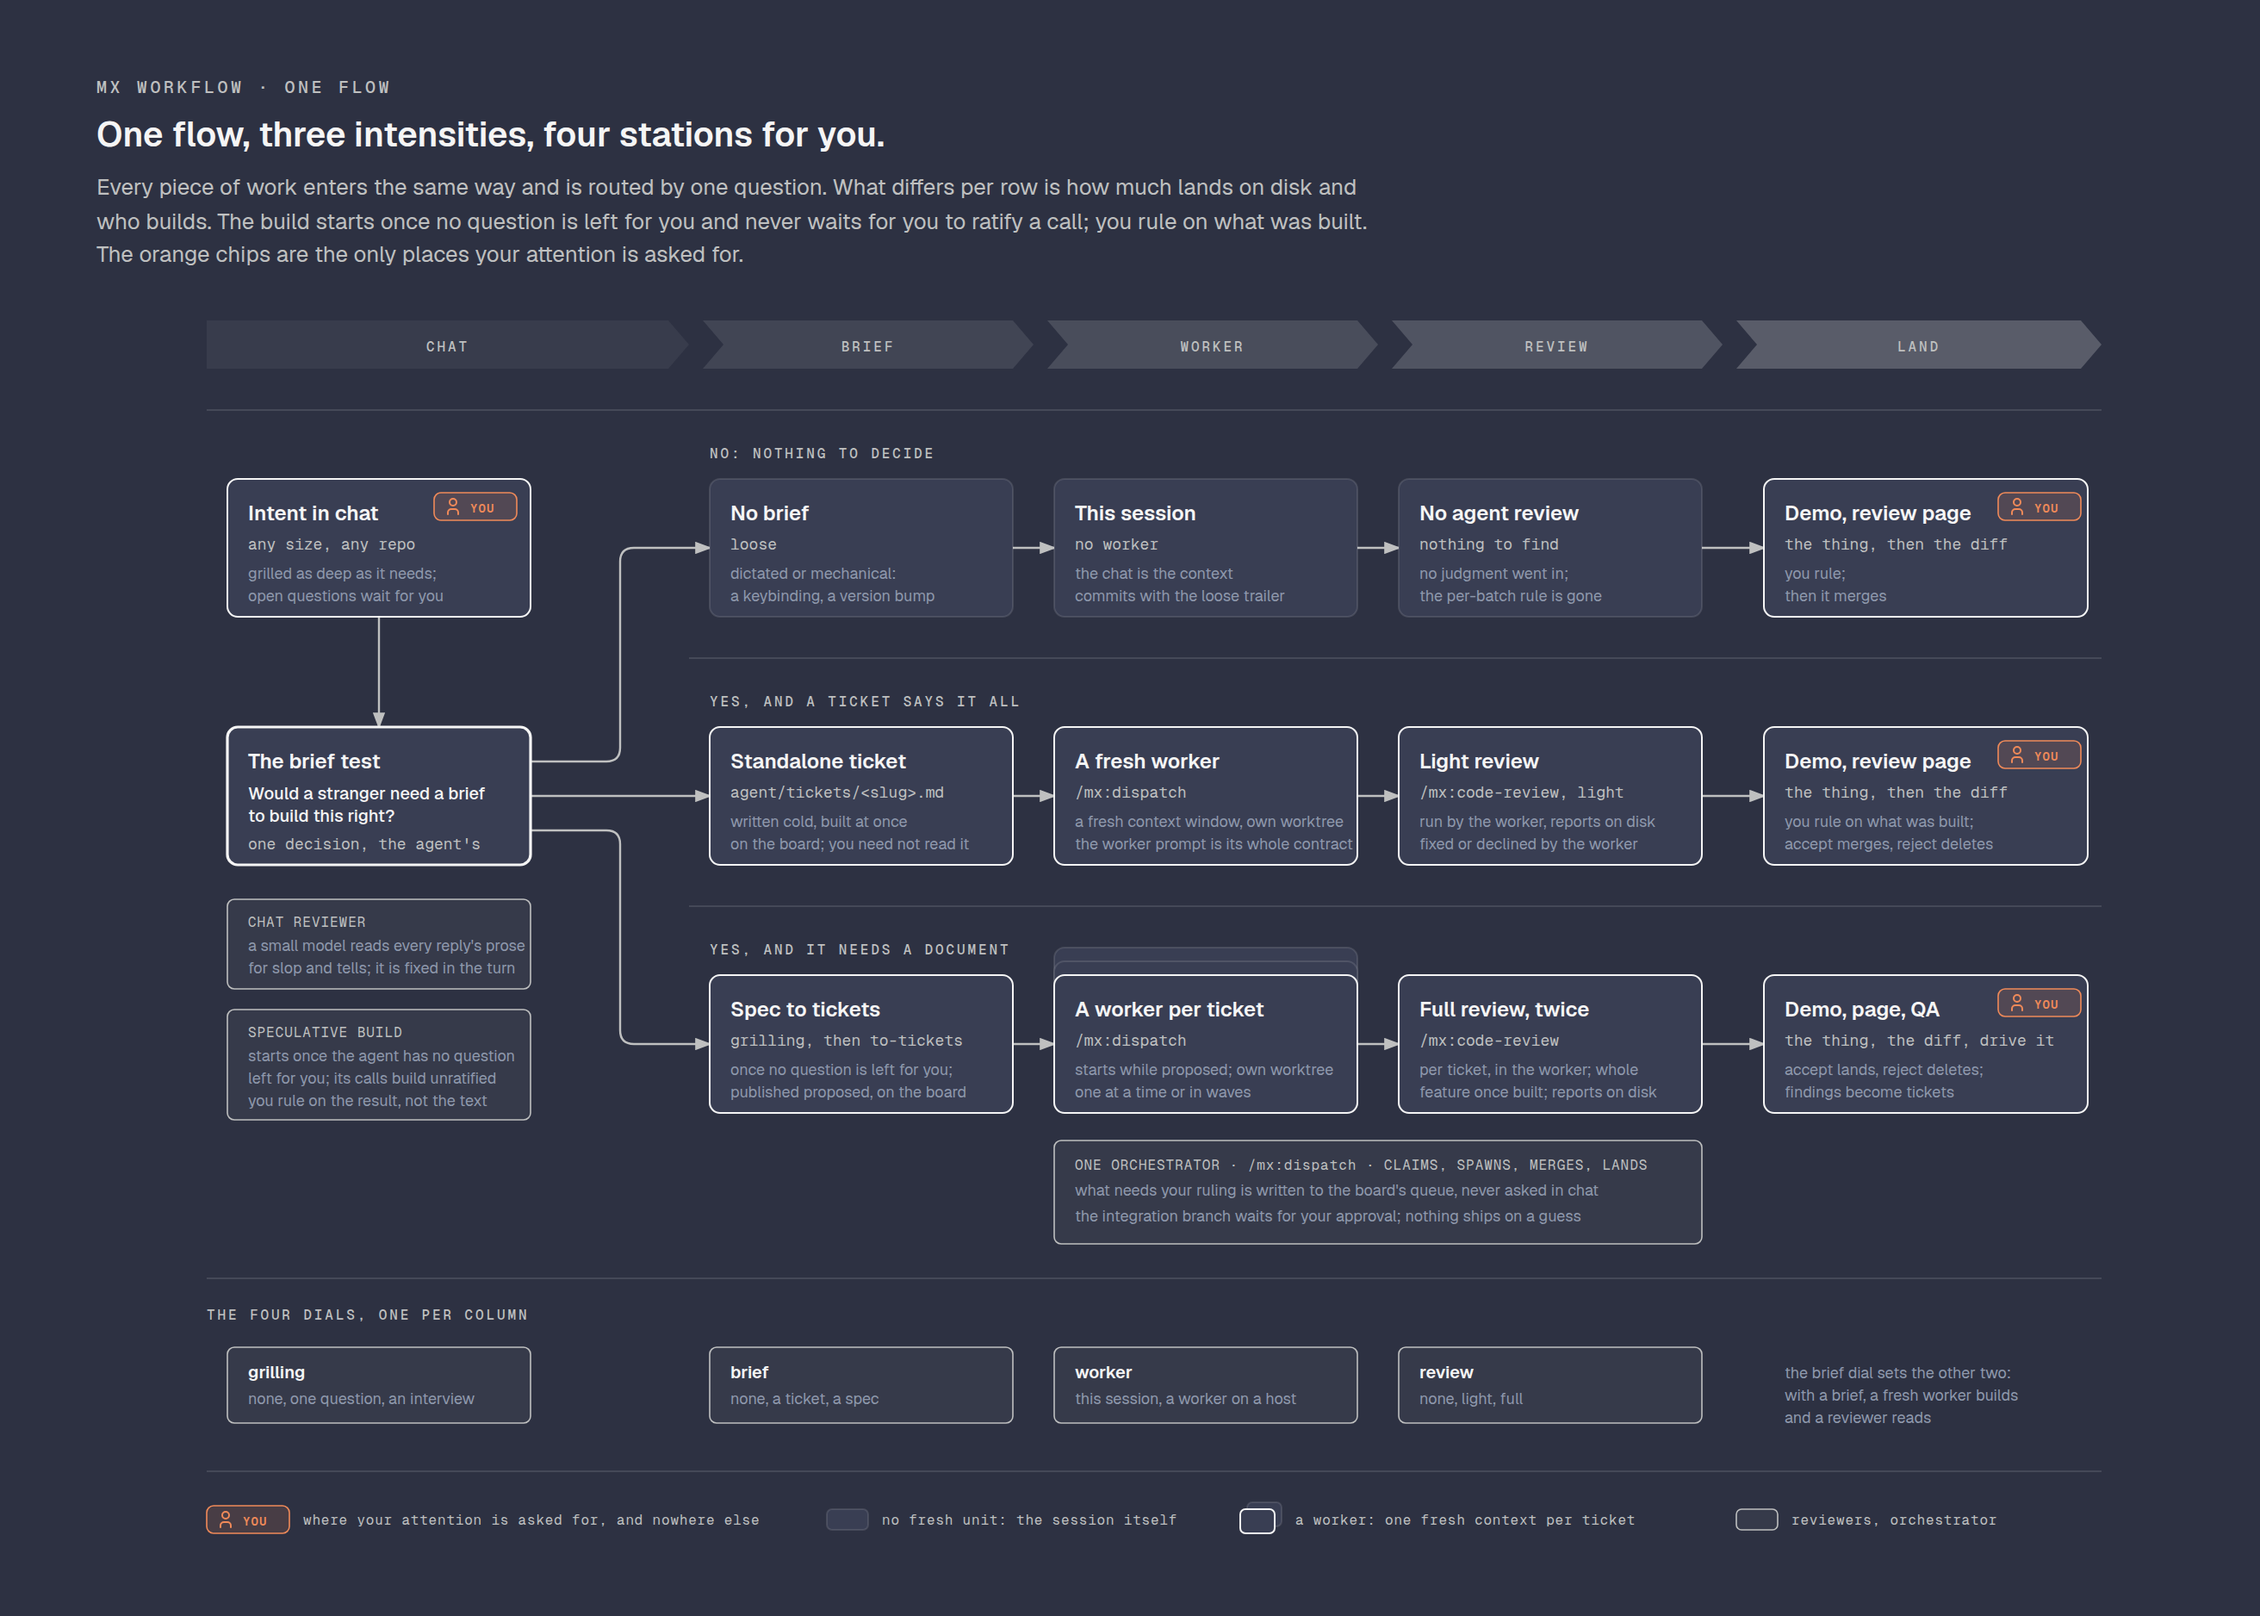
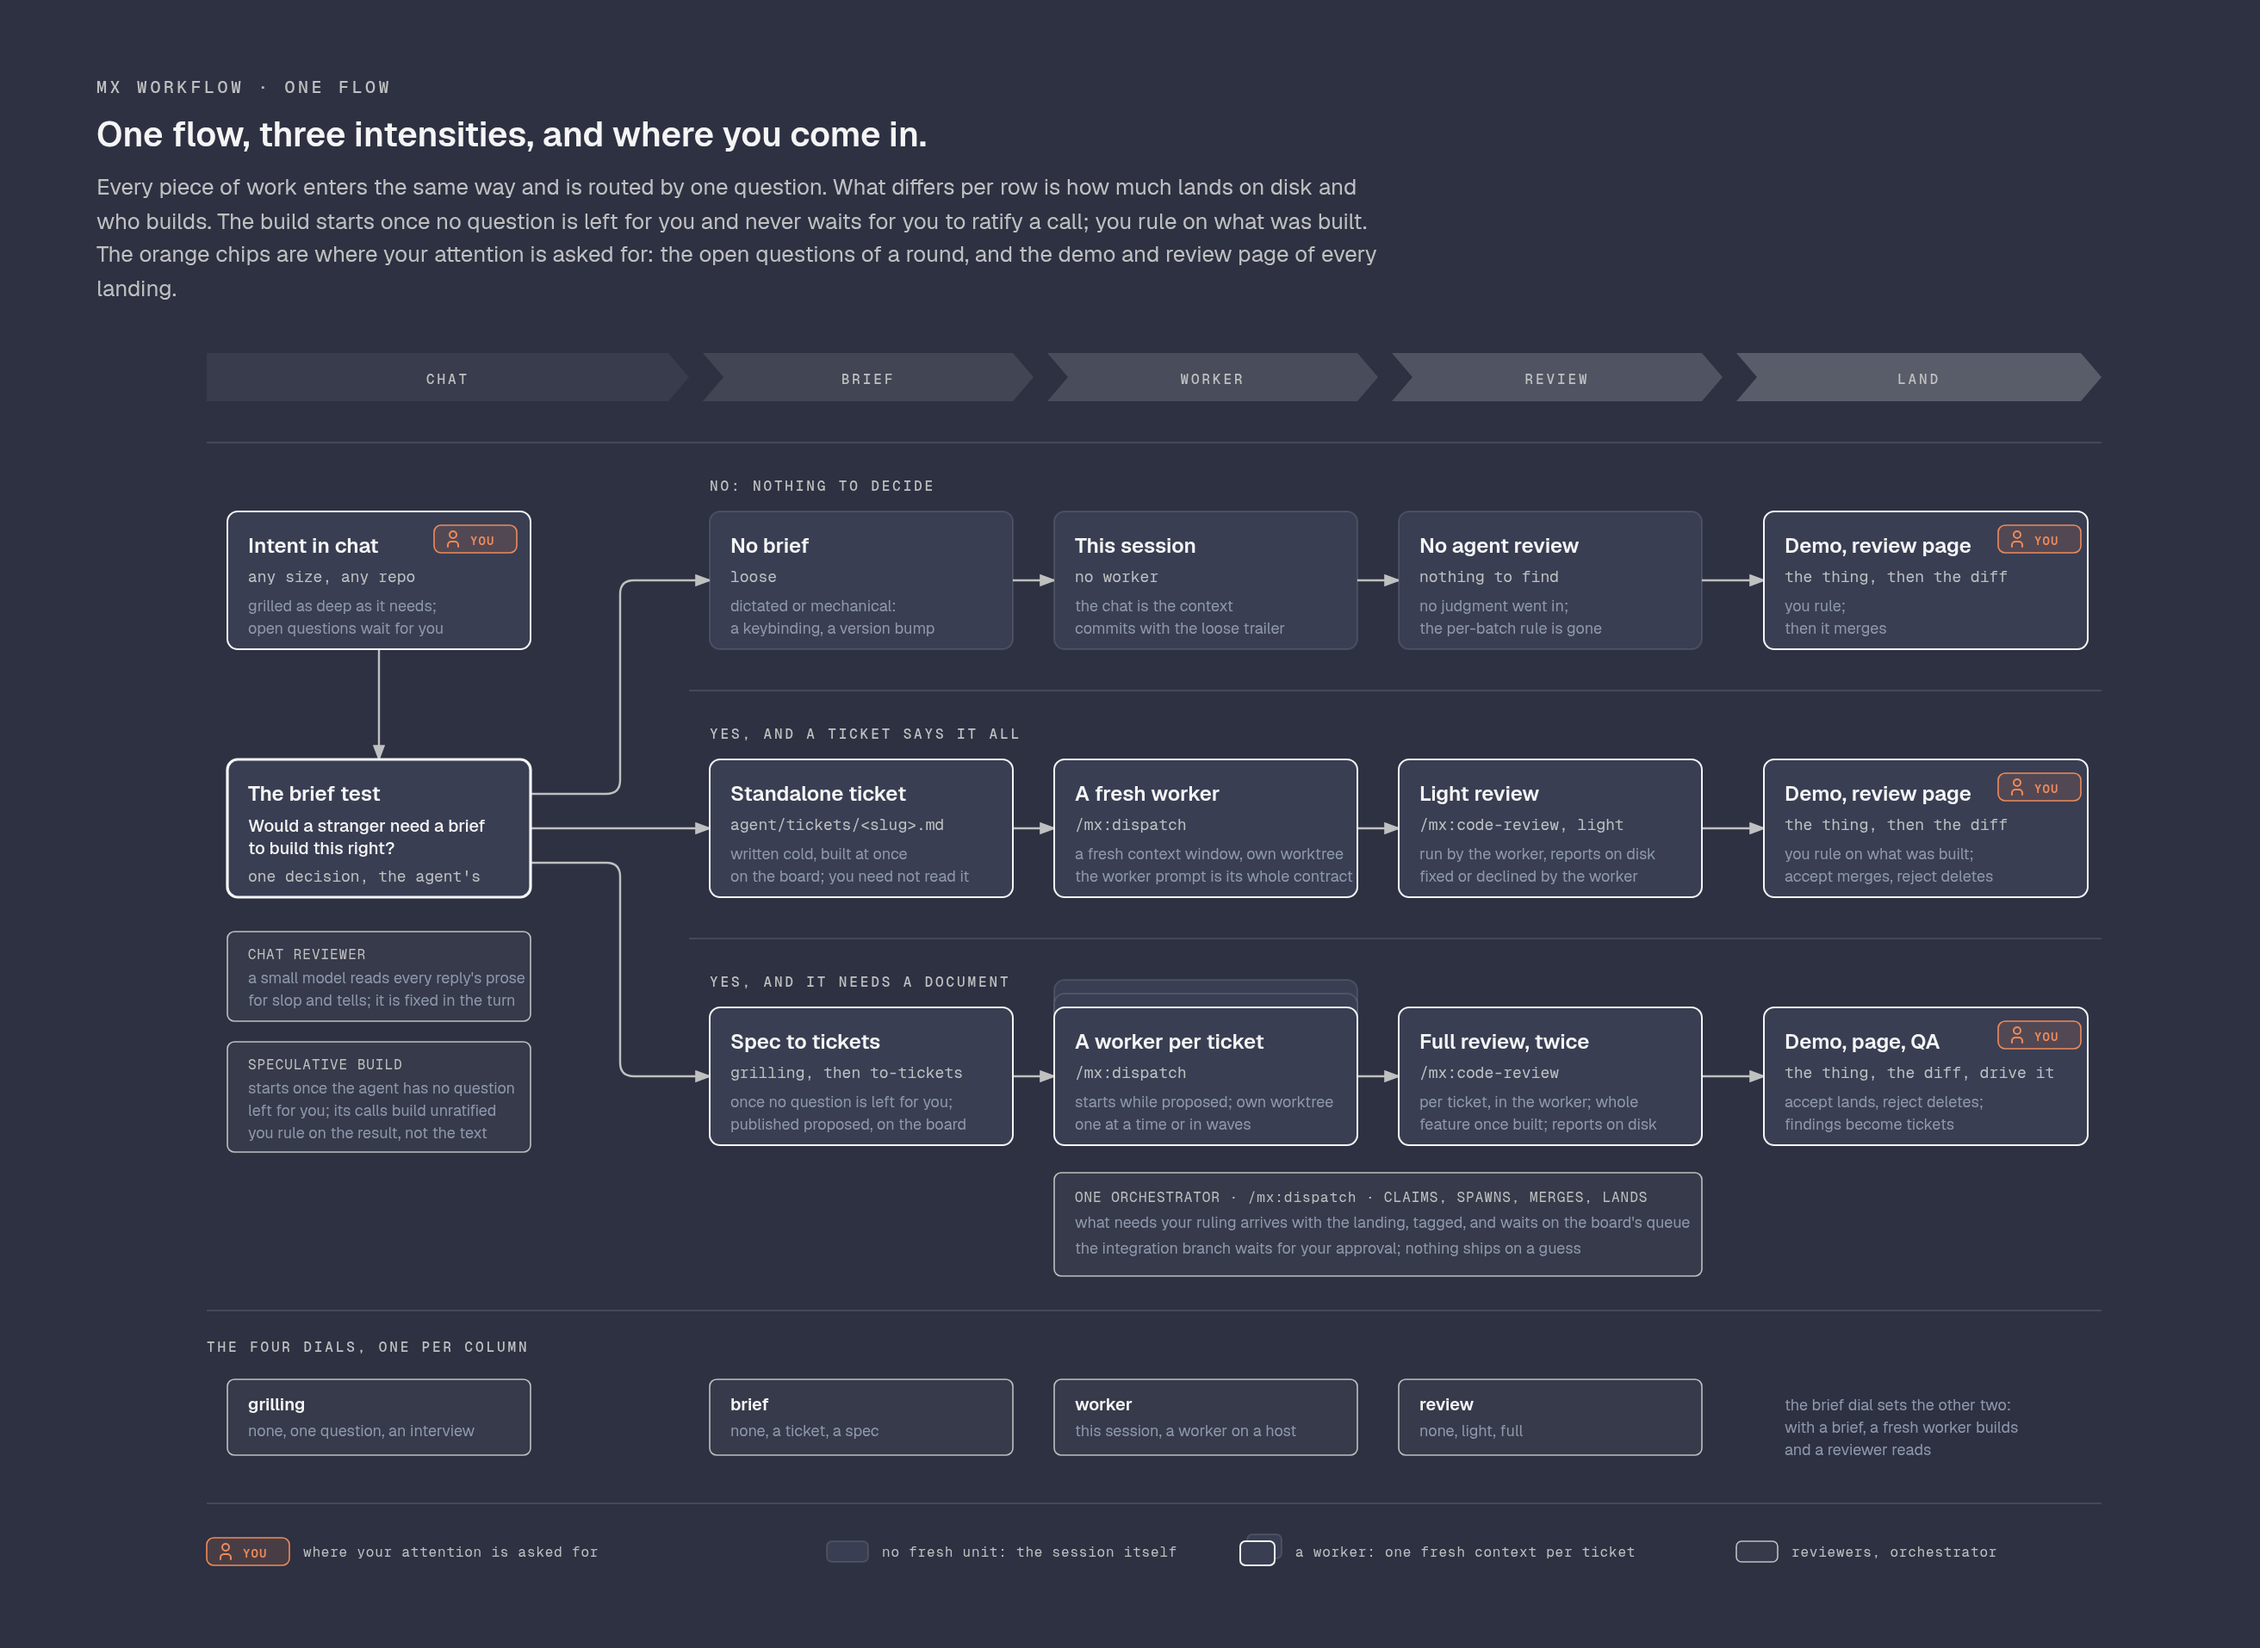
review: the figures, where they still describe what this feature retired
- The board screenshots were shot before ticket 08 dropped the per-feature
  worker host, so the feature header in the README still read "workers on
  workbench.local", a label board.py can no longer produce. Re-shot from the
  fixtures as they stand. This host has no diffview, so the review page was left
  as it was and only the two board shots were re-run.
- The lead figure told a reader that what needs their ruling "is written to the
  board's queue, never asked in chat", against the worker prompt, the output
  style, code-review's landing paragraph, dispatch's relay rule and this
  feature's other figure. It says what the flow does: the calls arrive with the
  landing, tagged, and the queue holds what waits.
- It also counted four stations against four chips that mark two, drawn once and
  three times; the title and the dek now say what the chips mark, and the
  README's alt text with them.

Workflow-stage: review

diff --git a/agent/show/mx-readme-figures/one-flow.html b/agent/show/mx-readme-figures/one-flow.html
@@ -53,10 +53,11 @@ text{fill:var(--ink);}
   <p class="eyebrow">mx workflow &middot; one flow</p>
   <button class="scheme"></button>
 </header>
-<h1>One flow, three intensities, four stations for you.</h1>
+<h1>One flow, three intensities, and where you come in.</h1>
 <p class="dek">Every piece of work enters the same way and is routed by one question. What differs per row is how much
 lands on disk and who builds. The build starts once no question is left for you and never waits for you to ratify
-a call; you rule on what was built. The orange chips are the only places your attention is asked for.</p>
+a call; you rule on what was built. The orange chips are where your attention is asked for: the open questions of
+a round, and the demo and review page of every landing.</p>
 
 <svg viewBox="0 0 1200 724" xmlns="http://www.w3.org/2000/svg">
   <defs>
@@ -234,7 +235,7 @@ a call; you rule on what was built. The orange chips are the only places your at
   <use href="#you" x="1104" y="392"/>
 
   <text class="al" x="568" y="497">ONE ORCHESTRATOR &middot; /mx:dispatch &middot; CLAIMS, SPAWNS, MERGES, LANDS</text>
-  <text class="note" x="568" y="512">what needs your ruling is written to the board's queue, never asked in chat</text>
+  <text class="note" x="568" y="512">what needs your ruling arrives with the landing, tagged, and waits on the board's queue</text>
   <text class="note" x="568" y="527">the integration branch waits for your approval; nothing ships on a guess</text>
 
   <!-- labels: dials -->
@@ -254,7 +255,7 @@ a call; you rule on what was built. The orange chips are the only places your at
   <!-- legend -->
   <line class="rule" x1="64" y1="672" x2="1164" y2="672"/>
   <use href="#you" x="64" y="692"/>
-  <text class="legend-text" x="120" y="703">where your attention is asked for, and nowhere else</text>
+  <text class="legend-text" x="120" y="703">where your attention is asked for</text>
   <rect class="card-ghost" x="424" y="694" width="24" height="12" rx="3"/>
   <text class="legend-text" x="456" y="703">no fresh unit: the session itself</text>
   <rect class="card-ghost" x="668" y="690" width="20" height="14" rx="3"/>

diff --git a/mx/README.md b/mx/README.md
@@ -4,7 +4,7 @@ File-based specs and tickets, domain glossary + ADRs, research artefacts, and se
 
 <picture>
   <source media="(prefers-color-scheme: dark)" srcset="assets/one-flow.png">
-  <img alt="One flow in three rows, by how much of the design lands on disk: a dictated change with no brief and no worker, a standalone ticket built by a fresh worker, and a spec sliced into tickets and dispatched; the build starts once no question is left for you and never waits for you to ratify a call, and four orange chips mark the only places your attention is asked for" src="assets/one-flow-light.png">
+  <img alt="One flow in three rows, by how much of the design lands on disk: a dictated change with no brief and no worker, a standalone ticket built by a fresh worker, and a spec sliced into tickets and dispatched; the build starts once no question is left for you and never waits for you to ratify a call, and orange chips mark where your attention is asked for: a round's open questions, and the demo and review page of every landing" src="assets/one-flow-light.png">
 </picture>
 
 <details>
